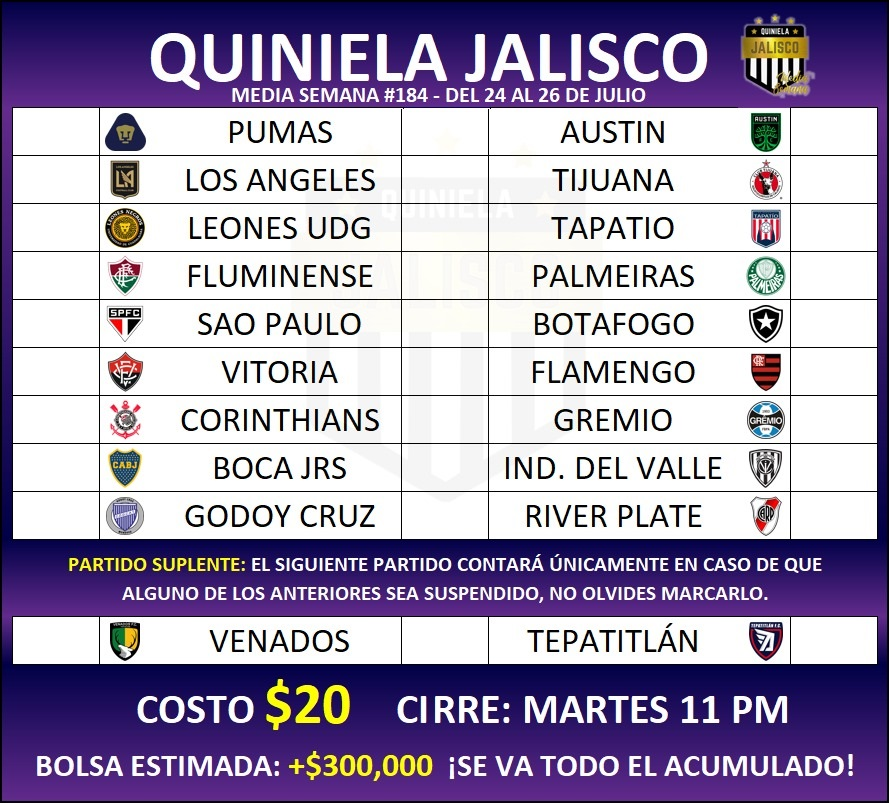
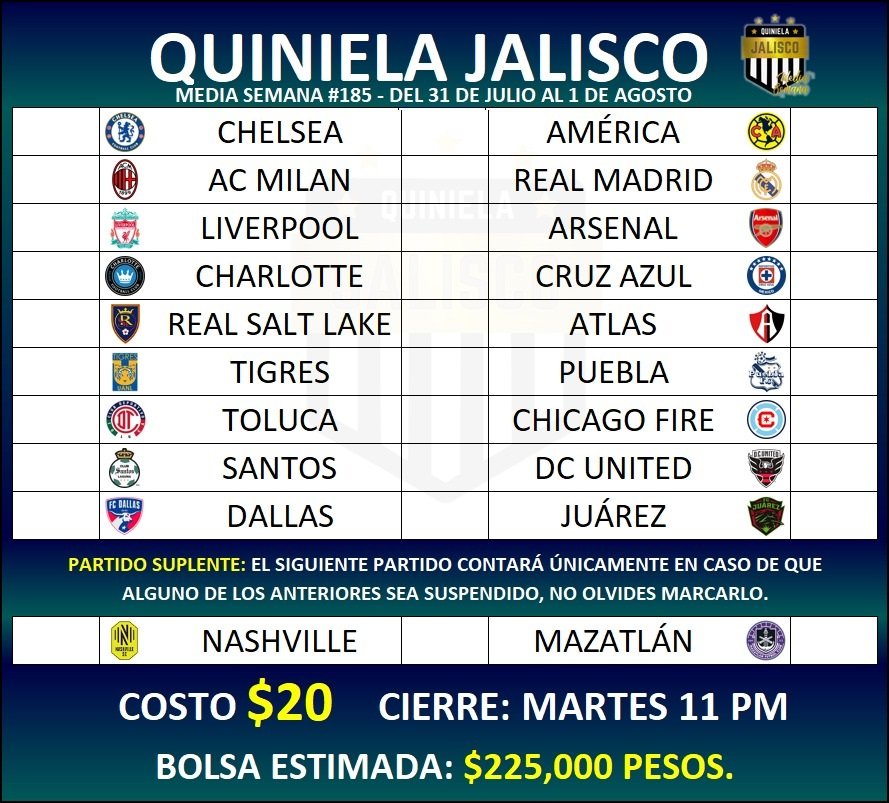
Media Semana #185

diff --git a/MediaSemana/stylesmSusp.css b/MediaSemana/stylesmSusp.css
@@ -94,8 +94,8 @@ body{
     margin-top: 9%;
     border: solid 1px black;
     border-radius: 0 0 14px 14px;
-    background: -webkit-linear-gradient(0.5turn, rgb(55, 22, 110), rgb(0 13 63) 80%);
-    background: linear-gradient(0.5turn, rgb(55, 22, 110), rgb(0 13 63) 80%);
+    background: -webkit-linear-gradient(0.5turn, rgb(0, 65,83), rgb(0 13 63) 80%);
+    background: linear-gradient(0.5turn, rgb(0, 65,83), rgb(0 13 63) 80%);
 }
 
 .text-lg{
@@ -294,7 +294,7 @@ h6{
 }
 
 #cantidad:before{
-    content:' +$300,000 pesos\A¡Se reparte todo el acumulado!';
+    content:' $225,000 pesos';
     color: yellow;
     white-space:pre;
 }
